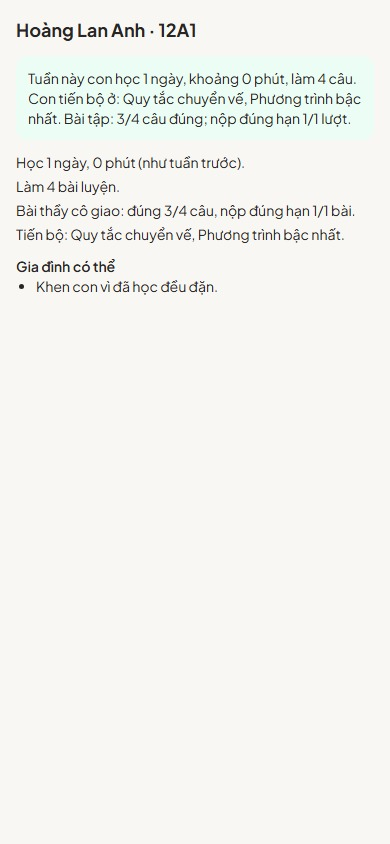
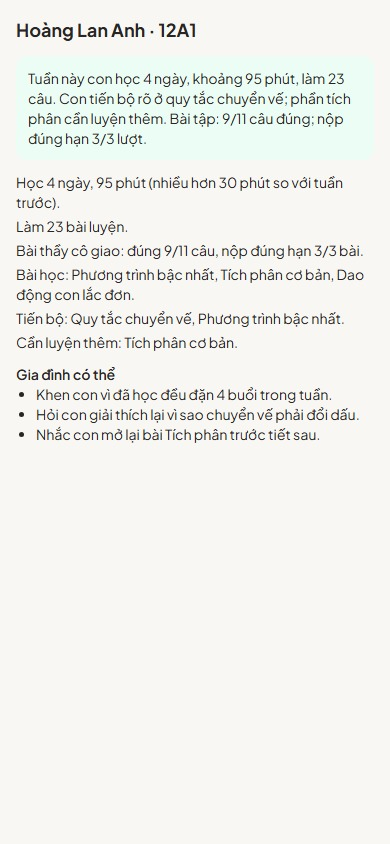
feat(demo): scene 10 (four simulations) and console grid B3; sample data for report scenes

Changed region(s): [[0.0308, 0.0616, 0.9231, 0.5237]]

diff --git a/socratic-monorepo/tools/demo-video/scenes.py b/socratic-monorepo/tools/demo-video/scenes.py
@@ -515,8 +515,10 @@ def scene_26(page, rec, ctx):
     """Điện thoại phụ huynh: báo cáo tuần của con (link bí mật /parent/<token>), vuốt xuống cuối trang."""
     import demo_data
 
+    import sample_data
+
     st = json.load(open(demo_data.STATE, encoding="utf-8"))
-    demo_data.ensure_activity(st)
+    sample_data.use_sample_parent_report(page)  # dữ liệu mẫu cho video (người dùng yêu cầu)
     open_student(page, "/parent/" + st["parentToken"])
     rec.start()
     rec.hold(3.0)
@@ -688,7 +690,183 @@ def scene_17(page, rec, ctx):
     return True
 
 
+def type_on_board(page, x: float, y: float, text: str):
+    """Công cụ Chữ: chạm vào bảng, gõ đề, Enter."""
+    tap(page, "tool-text", 0.4)
+    page.mouse.click(x, y)
+    page.wait_for_timeout(400)
+    page.keyboard.type(text, delay=45)
+    page.wait_for_timeout(300)
+    page.keyboard.press("Enter")
+    page.wait_for_timeout(700)
+
+
+GEO_10C = ["Cho hình chóp S.ABCD, đáy là hình vuông, SA ⊥ (ABCD).",
+           "a) Gọi M là trung điểm SB.",
+           "b) Gọi N là trung điểm SD.",
+           "c) Gọi P là trung điểm SC."]
+SIM_10 = [
+    ("10a", ["x^2 + y^2 + z^2 = 9"], "visualize", "Mặt cầu trong Oxyz"),
+    ("10b", ["2NO2 <=> N2O4"], "visualize", "Cân bằng 2NO2 ⇌ N2O4, nén piston"),
+    ("10c", GEO_10C, "draw", "Đề hình chóp S.ABCD với nút a) b) c)"),
+    ("10d", ["mạch RLC cộng hưởng"], "visualize", "Mạch RLC cộng hưởng, giản đồ Fresnel"),
+]
+
+
+def drag_to_value(page, test_id: str, target: float, step_px: float = 1.2, max_steps: int = 400):
+    """Kéo núm thanh trượt dần như tay, dừng khi giá trị thật của thanh tới mục tiêu."""
+    sl = page.locator(f"[data-testid={test_id}]").first
+    bb = sl.bounding_box()
+    lo, hi, val = sl.evaluate("e => [Number(e.min), Number(e.max), Number(e.value)]")
+    y = bb["y"] + bb["height"] / 2
+    x = bb["x"] + bb["width"] * (val - lo) / ((hi - lo) or 1)
+    direction = 1 if target > val else -1
+    page.mouse.move(x, y)
+    page.mouse.down()
+    for _ in range(max_steps):
+        x += direction * step_px
+        page.mouse.move(x, y)
+        page.wait_for_timeout(18)
+        if (float(sl.evaluate("e => e.value")) - target) * direction >= 0:
+            break
+    page.mouse.up()
+
+
+def park_ai_disc(page):
+    """Chạm giữ đĩa AI rồi kéo xuống góc dưới phải cho khỏi che đề."""
+    fab = page.get_by_test_id("ai-fab").bounding_box()
+    x, y = fab["x"] + fab["width"] / 2, fab["y"] + fab["height"] / 2
+    page.mouse.move(x, y)
+    page.mouse.down()
+    page.wait_for_timeout(650)
+    for i in range(1, 31):
+        page.mouse.move(x + (1820 - x) * i / 30, y + (960 - y) * i / 30)
+        page.wait_for_timeout(16)
+    page.mouse.up()
+    page.wait_for_timeout(300)
+
+
+PYR_10C = ("Cho hình chóp S.ABCD có đáy ABCD là hình vuông cạnh a, SA vuông góc với đáy, SA = a√2. "
+           "a) Gọi M là trung điểm SB. b) Gọi O = AC ∩ BD. c) Tìm thiết diện của hình chóp cắt bởi mặt phẳng (MOD).")
+
+
+def scene_10c(page, ctx):
+    """Đề hình học có a), b), c): AI → Vẽ hình → gõ đề → Vẽ → bật từng phần (đề đã có trong bộ test geoPartChips)."""
+    open_board(page)
+    r = Recorder(page)
+    r.start()
+    r.hold(0.8)
+    tap(page, "ai-fab", 0.6)
+    tap(page, "ai-fab-draw", 0.8)
+    tap(page, "ai-fab-draw-typed", 0.8)
+    page.get_by_test_id("geo-problem-text").press_sequentially(PYR_10C, delay=18)
+    r.hold(1.2)
+    tap(page, "geo-problem-draw", 1.5)
+    page.keyboard.press("Escape")
+    park_ai_disc(page)
+    r.hold(1.2)
+    for k in range(1, 4):
+        chip = page.locator(f"[data-testid=geo-part-{k}]")
+        if chip.count():
+            chip.first.click()
+            r.hold(2.2)
+    r.hold(1.5)
+    probe(page, ctx, "10c-sim")
+    r.stop()
+    ctx["finish"](r, "10c", "Đề hình chóp S.ABCD: dựng từ đề, bật tắt a) b) c)", "board", page.viewport_size)
+
+
+def scene_10(page, rec, ctx):
+    """Bốn đoạn mô phỏng (mỗi đoạn ≥ 8 giây) để ghép lưới 2×2."""
+    for sid, lines, action, title in SIM_10:
+        if sid == "10c":
+            scene_10c(page, ctx)
+            continue
+        ai_cache(page, sid)
+        open_board(page)
+        r = Recorder(page)
+        r.start()
+        r.hold(0.8)
+        x0, y0 = (260, 150) if len(lines) > 1 else (420, 260)
+        for i, ln in enumerate(lines):
+            type_on_board(page, x0, y0 + i * 78, ln)
+        items = page.locator(".typeset-item")
+        boxes = [items.nth(i).bounding_box() for i in range(items.count())] or [{"x": x0, "y": y0 - 30, "width": 700, "height": 80}]
+        left = min(b_["x"] for b_ in boxes); top = min(b_["y"] for b_ in boxes)
+        right = max(b_["x"] + b_["width"] for b_ in boxes); bottom = max(b_["y"] + b_["height"] for b_ in boxes)
+        tap(page, "tool-lasso", 0.3)
+        ink.draw(page, [ink.ellipse((left + right) / 2, (top + bottom) / 2, (right - left) / 2 + 70, (bottom - top) / 2 + 60)], speed=1500)
+        r.hold(0.6)
+        page.get_by_test_id("top-toolbar-btn-visualize" if action == "visualize" else "ai-fab-draw").click()
+        r.cut_begin()
+        wait_until(page, "() => !!document.querySelector('[data-testid=holo-touch-resize-handle], [data-testid=shape-geo-tools]')", 45)
+        page.wait_for_timeout(1500)
+        r.cut_end(keep=0.8)
+        page.keyboard.press("Escape")
+        page.wait_for_timeout(300)
+        park_ai_disc(page)
+        r.hold(1.0)
+        if sid == "10a":  # xoay mặt cầu
+            drag(page, (1080, 190), (1230, 170), ms=1800)
+            r.hold(1.5)
+            drag(page, (1230, 170), (1120, 200), ms=1500)
+        elif sid == "10b":  # nén piston rồi đun nóng: màu và nồng độ đổi theo
+            page.get_by_role("button", name="Nén piston").first.click()
+            r.hold(3.5)
+            page.get_by_role("button", name="Đun nóng").first.click()
+        elif sid == "10c":  # dời hình sang phải rồi bật từng phần a) b) c)
+            grips = [b_ for b_ in (page.get_by_test_id("shape-grip").nth(i).bounding_box() for i in range(page.get_by_test_id("shape-grip").count())) if b_]
+            print("grips:", [(round(b_["x"]), round(b_["y"])) for b_ in grips])
+            g = min(grips, key=lambda b_: b_["y"]) if grips else None
+            if g:
+                gx, gy = g["x"] + g["width"] / 2, g["y"] + g["height"] / 2
+                drag(page, (gx, gy), (gx + 820, gy + 140), ms=1600, steps=260)
+            r.hold(1.0)
+            for k in range(1, 4):
+                chip = page.locator(f"[data-testid=geo-part-{k}]")
+                if chip.count():
+                    chip.first.click()
+                    r.hold(2.0)
+        elif sid == "10d":  # kéo tần số góc tới cộng hưởng ω0 = 1/√(LC)
+            drag_to_value(page, "slider-omega", 200.0, step_px=1.0)
+        r.hold(2.5)
+        probe(page, ctx, sid + "-sim")
+        r.stop()
+        ctx["finish"](r, sid, title, "board", page.viewport_size)
+    return True
+
+
+def scene_b3(page, rec, ctx):
+    """Trang quản lý, tiết đang dạy: lưới học sinh × câu cập nhật dần, tỉ lệ đúng, cần hỗ trợ, duyệt bài chờ, chiếu lên bảng (số liệu MẪU)."""
+    import demo_data
+    import sample_data
+
+    st = json.load(open(demo_data.STATE, encoding="utf-8"))
+    period = demo_data.call("POST", "/api/v1/console/periods", {"title": "Phương trình bậc nhất – tiết 3", "class_id": st["classId"]}, token=st["token"])
+    demo_data.call("POST", f"/api/v1/console/periods/{period['id']}/start", token=st["token"])
+    page.context.add_init_script(f"localStorage.setItem('console_token', {json.dumps(st['token'])}); localStorage.setItem('board_url', '{BOARD}');")
+    sample_data.use_sample_assignment_grid(page, period["id"])
+    page.goto(f"{CONSOLE}/periods/{period['id']}", wait_until="domcontentloaded")
+    page.add_style_tag(content=HIDE_DEV)
+    page.wait_for_selector("[data-testid=assignment-live]", timeout=20000)
+    page.evaluate("document.querySelector('[data-testid=assignment-live]').scrollIntoView({block: 'start'})")
+    page.wait_for_timeout(300)
+    rec.start()
+    rec.hold(26.0)  # bài nộp đến dần: lưới, tỉ lệ đúng, "Cần hỗ trợ" tự cập nhật
+    pend = page.locator("[data-testid^=pending-]").first
+    pend.evaluate("e => e.scrollIntoView({block: 'center'})")
+    rec.hold(1.5)
+    pend.get_by_test_id("show-on-board").click()
+    rec.hold(1.5)
+    pend.get_by_test_id("review-correct").click()
+    rec.hold(3.0)
+    probe(page, ctx, "B3")
+    rec.stop()
+
+
 SCENES: Dict[str, dict] = {
+    "B3": {"title": "Trang quản lý: lưới bài làm trong tiết, duyệt và chiếu (số liệu mẫu)", "device": "laptop", "run": scene_b3},
+    "10": {"title": "Bốn mô phỏng ghép lưới", "device": "board", "run": scene_10},
     "17": {"title": "Điện thoại: cân đĩa lệch → tự cân bằng Fe + O2", "device": "phone", "run": scene_17},
     "15": {"title": "Điện thoại: bước sai → gia sư hỏi lại", "device": "phone", "run": scene_15},
     "14": {"title": "Máy tính bảng: Lớp của em và bài thầy gửi", "device": "tablet", "run": scene_14},

diff --git a/socratic-monorepo/tools/demo-video/sample_data.py b/socratic-monorepo/tools/demo-video/sample_data.py
@@ -1,0 +1,139 @@
+"""DỮ LIỆU MẪU cho các cảnh quay có số liệu thống kê/báo cáo (người dùng yêu cầu dùng tạm số liệu mẫu cho video).
+Chỉ dùng khi ghi cảnh: chặn đúng lời gọi API tương ứng và trả về dữ liệu dưới đây; giao diện là giao diện thật, không đổi mã ứng dụng."""
+import json
+
+PARENT_REPORT = {
+    "student": {"name": "Hoàng Lan Anh", "className": "12A1"},
+    "lastWeek": {
+        "week": "2026-W43", "lessons": ["Phương trình bậc nhất"], "activeDays": 3, "minutes": 65, "done": 14,
+        "improved": [], "needsHelp": ["Quy tắc chuyển vế"], "tips": [], "comment": "", "source": "template",
+        "vsLastWeek": {"minutesDelta": 0, "activeDaysDelta": 0}, "assignments": {"correct": 5, "total": 8, "runs": 2, "onTime": 2},
+    },
+    "thisWeek": {
+        "week": "2026-W44",
+        "lessons": ["Phương trình bậc nhất", "Tích phân cơ bản", "Dao động con lắc đơn"],
+        "activeDays": 4, "minutes": 95, "done": 23,
+        "improved": ["Quy tắc chuyển vế", "Phương trình bậc nhất"],
+        "needsHelp": ["Tích phân cơ bản"],
+        "tips": ["Khen con vì đã học đều đặn 4 buổi trong tuần.",
+                 "Hỏi con giải thích lại vì sao chuyển vế phải đổi dấu.",
+                 "Nhắc con mở lại bài Tích phân trước tiết sau."],
+        "comment": "Tuần này con học 4 ngày, khoảng 95 phút, làm 23 câu. Con tiến bộ rõ ở quy tắc chuyển vế; phần tích phân cần luyện thêm. Bài tập: 9/11 câu đúng; nộp đúng hạn 3/3 lượt.",
+        "source": "template", "vsLastWeek": {"minutesDelta": 30, "activeDaysDelta": 1},
+        "assignments": {"correct": 9, "total": 11, "runs": 3, "onTime": 3},
+    },
+}
+
+
+def use_sample_parent_report(page):
+    page.route("**/api/v1/hub/parent/*/report", lambda route: route.fulfill(
+        status=200, content_type="application/json", body=json.dumps(PARENT_REPORT, ensure_ascii=False)))
+
+
+# ---------------------------------------------------------------- lưới bài làm trong tiết (trang quản lý, UI-B3)
+CLASS_12A1 = ["Hoàng Lan Anh", "Nguyễn Minh", "Lê An", "Trần Bảo", "Phạm Hà", "Đỗ Kha",
+              "Vũ Thảo", "Bùi Nam", "Đặng Linh", "Ngô Huy", "Phan Mai", "Lý Tâm"]
+QUESTIONS = [("q1", "Câu 1", "choice"), ("q2", "Câu 2", "typed"), ("q3", "Câu 3", "choice"), ("q4", "Câu 4", "photo")]
+
+
+def _all_rows():
+    import random
+
+    rng = random.Random(12)
+    rows = []
+    for si, name in enumerate(CLASS_12A1):
+        sid = f"s-mau{si:02d}"
+        for qid, label, mode in QUESTIONS:
+            if si == 11 and qid == "q4":
+                continue  # một em chưa nộp câu 4
+            if mode == "photo":
+                ok = rng.random() < 0.55
+                status = "pending_teacher" if si in (2, 6, 9) else "graded"
+                lines = ["2x - 4 = 6", "2x = 6 + 4" if ok else "2x = 6 - 4", "x = 5" if ok else "x = 1"]
+                rows.append({"studentId": sid, "name": name, "questionId": qid, "mode": "photo", "status": status,
+                             "score": None if status == "pending_teacher" else (1 if ok else 0), "attempt": 1, "phase": "in_class",
+                             "answer": None, "confirmed": lines, "ocr": None, "grade": {"summary": "Lập luận đúng hướng"}, "hasPhoto": True})
+            else:
+                ok = rng.random() < (0.8 if si != 5 else 0.0)
+                wrong = {"q1": "-5", "q2": "4", "q3": "-4"}[qid]
+                right = {"q1": "5", "q2": "3", "q3": "+4"}[qid]
+                rows.append({"studentId": sid, "name": name, "questionId": qid, "mode": mode, "status": "graded", "score": 1 if ok else 0,
+                             "attempt": 1 if ok or rng.random() < 0.5 else 2, "phase": "in_class", "answer": right if ok else wrong,
+                             "confirmed": None, "ocr": None, "grade": None, "hasPhoto": False})
+    order = list(range(len(rows)))
+    rng.shuffle(order)
+    out = [rows[i] for i in order]
+    for k, r in enumerate(out):
+        r["submissionId"] = f"sub-mau-{k:03d}"
+    return out
+
+
+def _metrics(rows):
+    n = len(CLASS_12A1)
+    qs = []
+    for qid, label, _ in QUESTIONS:
+        rs = [r for r in rows if r["questionId"] == qid]
+        graded = [r for r in rs if r["score"] is not None]
+        wrong = {}
+        for r in graded:
+            if r["score"] == 0 and r["answer"]:
+                wrong[r["answer"]] = wrong.get(r["answer"], 0) + 1
+        qs.append({"questionId": qid, "label": label, "submittedRate": len(rs) / n,
+                   "correctRate": (sum(r["score"] for r in graded) / len(graded)) if graded else None,
+                   "firstTryRate": (sum(1 for r in graded if r["score"] == 1 and r["attempt"] == 1) / len(graded)) if graded else None,
+                   "wrongAnswers": [{"answer": a, "count": c} for a, c in sorted(wrong.items(), key=lambda x: -x[1])],
+                   "pending": sum(1 for r in rs if r["status"] == "pending_teacher")})
+    students = []
+    for si, name in enumerate(CLASS_12A1):
+        mine = [r for r in rows if r["studentId"] == f"s-mau{si:02d}"]
+        graded = [r for r in mine if r["score"] is not None]
+        students.append({"studentId": f"s-mau{si:02d}", "name": name,
+                         "score10": round(10 * sum(r["score"] for r in graded) / len(QUESTIONS), 1) if graded else None,
+                         "pending": sum(1 for r in mine if r["status"] == "pending_teacher"), "done": len(mine)})
+    return {"runId": "run-mau", "questions": qs, "students": students}
+
+
+def use_sample_assignment_grid(page, period_id: str, start_count: int = 6, per_step: int = 3, step_s: float = 1.8):
+    """Lưới bài làm mẫu đến dần theo thời gian (như học sinh đang nộp), tổng kết tiết và luồng sự kiện cho trang quản lý."""
+    import time
+
+    rows_all = _all_rows()
+    t0 = [None]
+    reviewed = {}
+
+    def shown():
+        if t0[0] is None:
+            t0[0] = time.monotonic()
+        k = min(len(rows_all), start_count + int((time.monotonic() - t0[0]) / step_s) * per_step)
+        rows = [dict(r) for r in rows_all[:k]]
+        for r in rows:
+            if r["submissionId"] in reviewed:
+                r["status"], r["score"] = "teacher_confirmed", reviewed[r["submissionId"]]
+        return rows
+
+    def summary(route):
+        rows = shown()
+        m = _metrics(rows)
+        body = {"periodId": period_id, "pending": sum(1 for r in rows if r["status"] == "pending_teacher"), "resources": [],
+                "needsSupport": [{"studentId": "s-mau05", "name": CLASS_12A1[5], "reasons": ["three_wrong_in_a_row"]}] if len(rows) > 20 else [],
+                "runs": [{"runId": "run-mau", "code": "K7Q2M9XA", "url": "", "assignmentId": "asg-mau", "classId": "cc-mau", "periodId": period_id,
+                          "openedAt": 0, "closedAt": None, "dueAt": None, "phase": "in_class",
+                          "title": "Luyện tập phương trình bậc nhất", "metrics": m}]}
+        route.fulfill(status=200, content_type="application/json", body=json.dumps(body, ensure_ascii=False))
+
+    def submissions(route):
+        route.fulfill(status=200, content_type="application/json", body=json.dumps({"submissions": shown()}, ensure_ascii=False))
+
+    def review(route):
+        sub_id = route.request.url.rstrip("/").split("/")[-2]
+        reviewed[sub_id] = json.loads(route.request.post_data or "{}").get("score", 1)
+        route.fulfill(status=200, content_type="application/json", body=json.dumps({"submissionId": sub_id, "status": "teacher_confirmed"}))
+
+    def stream(route):
+        route.fulfill(status=200, headers={"content-type": "text/event-stream"}, body='data: {"type": "submission_update"}\n\n')
+
+    page.route("**/api/v1/hub/console/periods/*/summary", summary)
+    page.route("**/api/v1/hub/runs/run-mau/submissions", submissions)
+    page.route("**/api/v1/hub/submissions/*/review", review)
+    page.route("**/api/v1/hub/runs/run-mau/show", lambda route: route.fulfill(status=200, content_type="application/json", body="{}"))
+    page.route("**/api/v1/hub/stream/teacher", stream)

diff --git a/.ai/HANDOFF.md b/.ai/HANDOFF.md
@@ -1455,3 +1455,4 @@ Chạy backend + Teacher Board + Student App, giáo viên gõ `y = x^2 - 3` lên
 - Trang `/demo` trên bảng: không nút; `?scene=<mã>` chỉ một cảnh, Space/PageDown phát, hết rồi bấm lại = quay lại shot; vùng chạm ẩn góc dưới trái. Hướng dẫn quay + deploy 3 dự án Vercel từ 1 repo: `docs/HUONG_DAN_QUAY_DEMO_VA_DEPLOY.md`. Thêm `apps/teacher-console/vercel.json`.
 - Sửa lỗi thật: con lắc góc lớn (RK4) đọc θ₀ (rad) như độ nên đứng yên và không khởi động lại khi kéo θ₀ (`utils/pendulumAngle.ts`). App học sinh nhận `?problem=<id>` (mở bài Fe + O2 → Fe2O3 vốn không có trong danh sách chọn bài).
 - Biết trước: tab "Gia sư Socratic 1:1" có cụm nút "DEMO DIRECTOR" hiện trên giao diện thật (cảnh ghi đã ẩn bằng CSS); máy chấm gia sư không bác được bước sai nhiều đại lượng (chỉ báo "chưa phân tích được").
+- (2026-10-30, tiếp) Thêm cảnh 10a–10d (4 mô phỏng: Oxyz, 2NO2⇌N2O4, hình chóp từ đề với a/b/c, RLC) và B3 (lưới bài làm trang quản lý). Cảnh 26 và B3 dùng SỐ LIỆU MẪU theo yêu cầu người dùng (`tools/demo-video/sample_data.py`, chặn API khi ghi; mã ứng dụng không đổi). Người dùng sẽ sửa/hoàn thiện app thật sau (danh sách việc còn lại ở trên và trong mục 3 của docs/HUONG_DAN_QUAY_DEMO_VA_DEPLOY.md).
